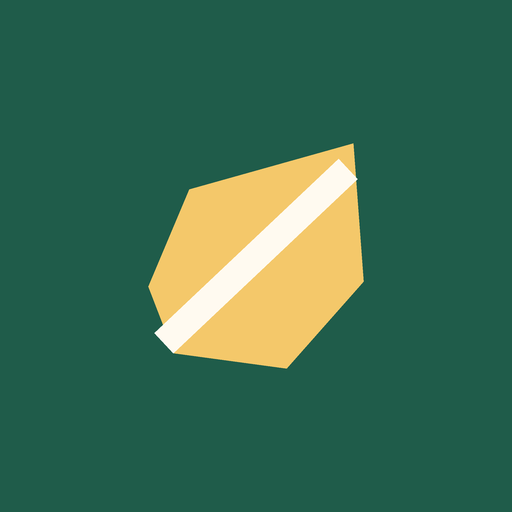
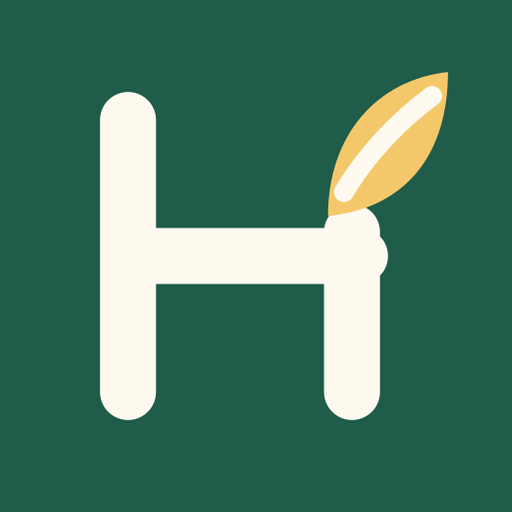
feat(ui): 更新品牌标志与食物页新增入口

Changed region(s): [[0.1875, 0.125, 0.875, 0.8438]]

diff --git a/src/app.css b/src/app.css
@@ -26,7 +26,11 @@ a { color: inherit; }
 .app-shell { min-height: 100vh; padding-bottom: 84px; }
 .topbar { position: sticky; z-index: 20; top: 0; display: flex; align-items: center; justify-content: space-between; min-height: 68px; padding: 10px max(18px, calc((100vw - 1080px) / 2)); border-bottom: 1px solid rgba(33, 92, 67, 0.13); background: rgba(244, 241, 232, 0.92); backdrop-filter: blur(14px); }
 .brand { display: flex; align-items: center; gap: 10px; text-decoration: none; }
-.brand-mark { display: grid; width: 42px; height: 42px; place-items: center; border-radius: 13px; color: #fff; background: var(--green); font-family: Georgia, serif; font-size: 22px; }
+.brand-mark { display: grid; width: 42px; height: 42px; place-items: center; border-radius: 13px; color: #fffaf0; background: var(--green); }
+.brand-mark svg { width: 34px; height: 34px; overflow: visible; }
+.brand-h { fill: none; stroke: currentColor; stroke-width: 7; stroke-linecap: round; stroke-linejoin: round; }
+.brand-leaf { fill: #f4c86a; }
+.brand-leaf-vein { fill: none; stroke: #fffaf0; stroke-width: 2.5; stroke-linecap: round; }
 .brand strong, .brand small { display: block; }
 .brand strong { letter-spacing: 0.02em; }
 .brand small { margin-top: 2px; color: var(--muted); font-size: 11px; }
@@ -85,8 +89,12 @@ input:focus, select:focus, textarea:focus { border-color: var(--green); box-shad
 .food-filters { display: grid; grid-template-columns: minmax(0, 1.7fr) 1fr 1fr; gap: 8px; }
 .food-filters .search-input { margin: 0; }
 .food-result-count { margin: 9px 0 4px; }
-.foods-page > .page-intro { order: 0; }
-.food-page-actions { display: flex; order: 1; justify-content: flex-end; }
+.foods-page > .page-intro { display: grid; order: 0; grid-template-columns: minmax(0, 1fr) auto; column-gap: 28px; align-items: center; }
+.foods-page > .page-intro > .eyebrow,
+.foods-page > .page-intro > h1,
+.foods-page > .page-intro > p { grid-column: 1; }
+.foods-page > .page-intro > .food-page-actions { grid-column: 2; grid-row: 1 / 4; }
+.food-page-actions { display: flex; justify-content: flex-end; }
 .food-page-actions .primary { min-width: 160px; }
 .foods-page > .food-editor-card { order: 2; scroll-margin-top: 82px; }
 .foods-page > .food-library-card { order: 3; }
@@ -181,6 +189,8 @@ hr { height: 1px; margin: 20px 0; border: 0; background: var(--line); }
   .card { border-radius: 17px; padding: 16px; }
   .two-columns, .nutrient-inputs { grid-template-columns: 1fr; }
   .food-filters { grid-template-columns: 1fr; }
+  .foods-page > .page-intro { grid-template-columns: 1fr; }
+  .foods-page > .page-intro > .food-page-actions { grid-column: 1; grid-row: auto; }
   .food-page-actions .primary { width: 100%; }
   .template-grid { grid-template-columns: 1fr; }
   .item-editor { grid-template-columns: repeat(2, minmax(0, 1fr)); }

diff --git a/src/HealthierApp.tsx b/src/HealthierApp.tsx
@@ -265,6 +265,18 @@ function completedFromSettings(settings: AppSetting[], date: string): boolean {
     completionValue.revision === (typeof revision === "number" ? revision : 0);
 }
 
+export function BrandMark() {
+  return (
+    <span className="brand-mark" aria-hidden="true">
+      <svg viewBox="0 0 64 64" focusable="false">
+        <path className="brand-h" d="M16 15v34M16 32h29M44 29v20" />
+        <path className="brand-leaf" d="M41 27C41 17 47 10 56 9c0 10-5 17-15 18Z" />
+        <path className="brand-leaf-vein" d="M43 24c3-5 7-9 11-12" />
+      </svg>
+    </span>
+  );
+}
+
 function Layout({ children }: PropsWithChildren) {
   const [update, setUpdate] = useState<(() => Promise<void>) | null>(null);
 
@@ -281,7 +293,7 @@ function Layout({ children }: PropsWithChildren) {
     <div className="app-shell">
       <header className="topbar">
         <NavLink className="brand" to="/" aria-label="回到今日记录">
-          <span className="brand-mark">衡</span>
+          <BrandMark />
           <span><strong>Healthier</strong><small>书本规则饮食记录</small></span>
         </NavLink>
         <span className="local-badge">仅存本机</span>
@@ -1021,10 +1033,11 @@ function FoodsPage() {
         eyebrow={BUILT_IN_FOODS.filter((food) => !isHiddenBuiltInFallbackFood(food)).length + " 种可直接选择食物"}
         title="小型、可追溯的食物库"
         description="基础数据来自美国农业部和中国食物成分公开资料；完整与部分营养值都会明确标记，模糊兜底条目不会伪造数值。"
-      />
-      <div className="food-page-actions">
-        <button className="primary" type="button" onClick={startAdding}>＋ 新增食物</button>
-      </div>
+      >
+        <div className="food-page-actions">
+          <button className="primary" type="button" onClick={startAdding}>＋ 新增食物</button>
+        </div>
+      </PageIntro>
       <section className="card food-library-card">
         <div className="food-filters">
           <input className="search-input" type="search" placeholder="搜索名称、别名或标签" value={query} onChange={(event) => setQuery(event.target.value)} />

diff --git a/src/HealthierApp.test.tsx b/src/HealthierApp.test.tsx
@@ -2,6 +2,7 @@ import { renderToStaticMarkup } from "react-dom/server";
 import { describe, expect, it } from "vitest";
 import {
   AssessmentPanel,
+  BrandMark,
   MealRow,
   WeeklyActionsPanel,
   filterFoodsForMealEditor,
@@ -32,6 +33,16 @@ function profile(healthFlags: UserProfile["healthFlags"]): UserProfile {
     updatedAt: "2026-08-25T08:00:00.000Z"
   };
 }
+
+describe("brand mark", () => {
+  it("使用 H 与叶片图形，不再显示旧汉字标志", () => {
+    const html = renderToStaticMarkup(<BrandMark />);
+
+    expect(html).toContain("<svg");
+    expect(html).toContain("brand-leaf");
+    expect(html).not.toContain("衡");
+  });
+});
 
 describe("AssessmentPanel safety rendering", () => {
   it("安全门开启时只展示摄入事实和安全提示", () => {
